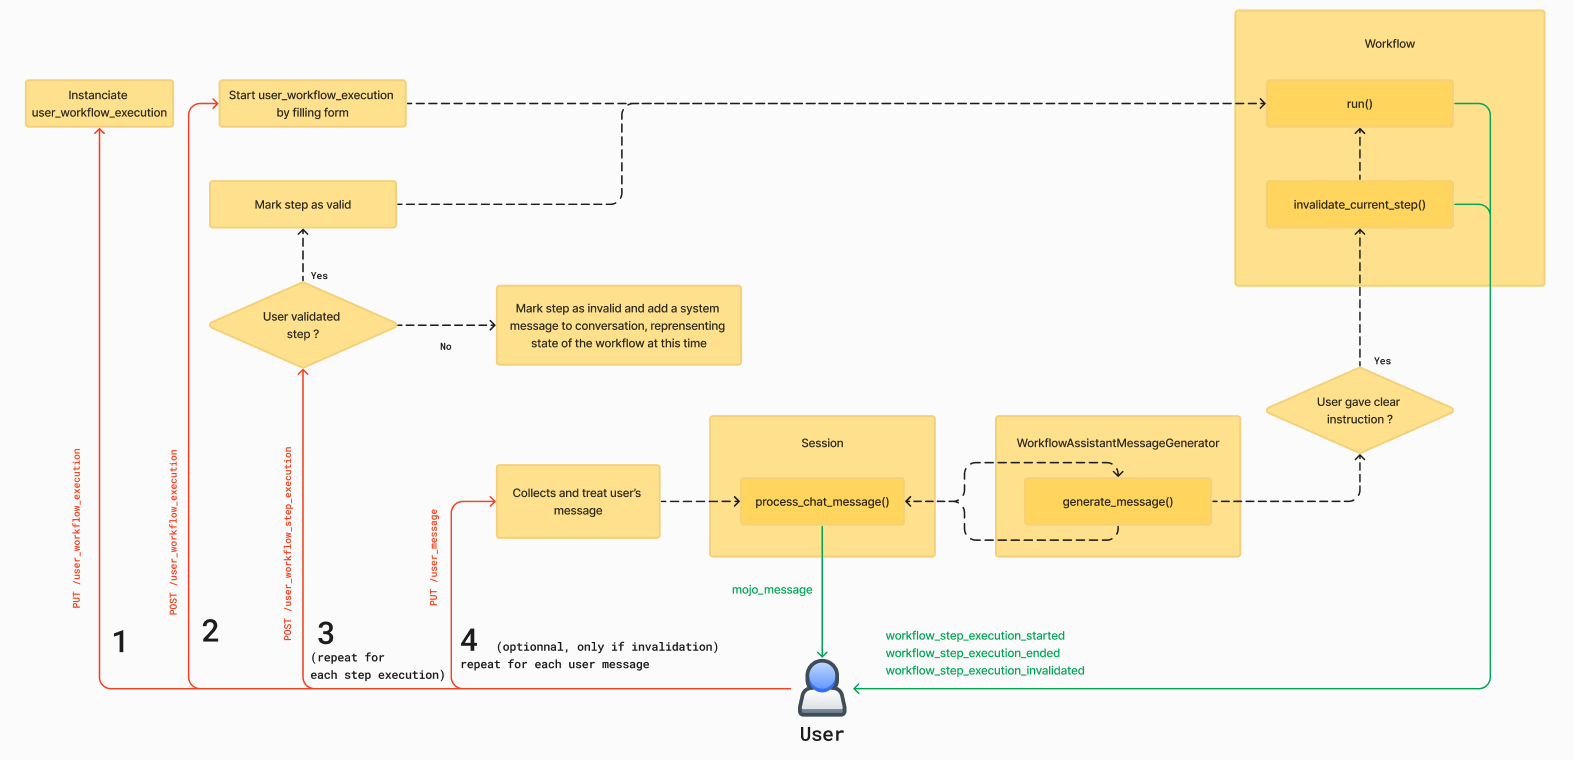
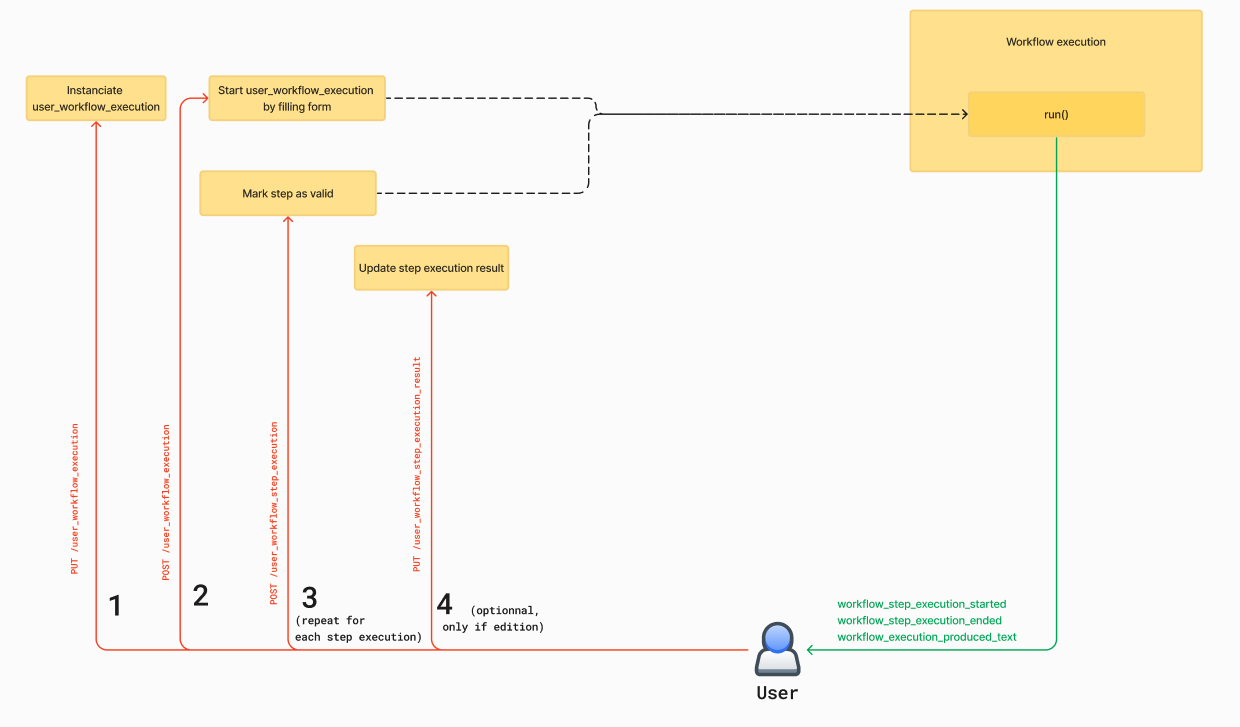
update workflow doc

diff --git a/backend/app/models/workflows/step_execution.py b/backend/app/models/workflows/step_execution.py
@@ -4,8 +4,6 @@ from mojodex_core.entities import MdUserWorkflowStepExecutionResult, MdUserWorkf
 from typing import List
 from models.workflows.steps_library import steps_class
 from mojodex_core.mail import send_technical_error_email
-from sqlalchemy.orm.attributes import flag_modified
-from app import time_manager
 import pytz
 class WorkflowStepExecution:
     logger_prefix = "WorkflowStepExecution"
@@ -37,7 +35,7 @@ class WorkflowStepExecution:
             step_json = self.to_json()
             step_json["session_id"] = session_id
             server_socket.emit('workflow_step_execution_started', step_json, to=session_id)
-            self.result = self.workflow_step.execute(self.parameter, self.get_learned_instructions(), initial_parameter,
+            self.result = self.workflow_step.execute(self.parameter, initial_parameter,
                                                      past_validated_steps_results, user_id=self.user_id,
                                                      user_task_execution_pk= self.db_object.user_task_execution_fk,
                                                      task_name_for_system= self.workflow_name, session_id=session_id)
@@ -98,41 +96,6 @@ class WorkflowStepExecution:
             self.db_session.commit()
         except Exception as e:
             raise Exception(f"{self.logger_prefix} :: validate :: {e}")
-
-    def invalidate(self, session_id: str):
-        try:
-            self.db_object.validated = False
-            self.db_session.commit()
-            # send message to user
-            json_step = self.to_json()
-            json_step["session_id"] = session_id
-            server_socket.emit('workflow_step_execution_invalidated', json_step, to=session_id)
-        except Exception as e:
-            raise Exception(f"{self.logger_prefix} :: invalidate :: {e}")
-
-    def learn_instruction(self, instruction):
-        try:
-            self.db_object.learned_instruction = instruction
-            self.db_session.commit()
-        except Exception as e:
-            raise Exception(f"{self.logger_prefix} :: learn_instruction :: {e}")
-
-    def get_learned_instructions(self):
-        # find list of previous step of this kind for this workflow execution
-        try:
-            previous_steps_execution = self.db_session.query(MdUserWorkflowStepExecution) \
-                .filter(MdUserWorkflowStepExecution.workflow_step_fk == self.db_object.workflow_step_fk) \
-                .filter(
-                MdUserWorkflowStepExecution.user_task_execution_fk == self.db_object.user_task_execution_fk) \
-                .filter(
-                MdUserWorkflowStepExecution.user_workflow_step_execution_pk != self.db_object.user_workflow_step_execution_pk) \
-                .all()
-            return [
-                {'result': previous_step_execution.result, 'instruction': previous_step_execution.learned_instruction}
-                for previous_step_execution in previous_steps_execution if
-                previous_step_execution.learned_instruction and previous_step_execution.parameter == self.parameter]
-        except Exception as e:
-            raise Exception(f"{self.logger_prefix} :: get_learned_instructions :: {e}")
 
     @property
     def creation_date(self):

diff --git a/backend/app/routes/user_workflow_step_execution.py b/backend/app/routes/user_workflow_step_execution.py
@@ -20,7 +20,6 @@ class UserWorkflowStepExecution(Resource):
         try:
             timestamp = request.json['datetime']
             user_workflow_step_execution_pk = request.json['user_workflow_step_execution_pk']
-            validated = request.json['validated'] # boolean
             platform = request.json['platform']
         except KeyError as e:
             return {"error": f"Missing parameter : {e}"}, 400
@@ -36,27 +35,9 @@ class UserWorkflowStepExecution(Resource):
                 return {"error": "Workflow execution not found for this user"}, 404
             
             workflow_execution = WorkflowExecution(user_task_execution.user_task_execution_pk)
-            if validated:
-                workflow_execution.validate_step_execution(user_workflow_step_execution_pk)
-                server_socket.start_background_task(workflow_execution.run)
-            else:
-                # # todo => set a status rejected ?
-                # add new message to db
-                current_step_in_validation = workflow_execution.get_step_execution_from_pk(user_workflow_step_execution_pk)
-                with open("mojodex_core/prompts/workflows/state.txt", "r") as file:
-                    template = Template(file.read())
-                    text = template.render(
-                        before_checkpoint_validated_steps_executions=workflow_execution.get_before_checkpoint_validated_steps_executions(current_step_in_validation),
-                        after_checkpoint_validated_steps_executions=workflow_execution.get_after_checkpoint_validated_steps_executions(current_step_in_validation),
-                        current_step=current_step_in_validation,
-                        )
-                    
-                system_message = MdMessage(
-                                session_id=user_task_execution.session_id, sender='system', event_name='worflow_step_execution_rejection', message={'text': text},
-                                creation_date=datetime.now(), message_date=datetime.now()
-                )
-                db.session.add(system_message)
-                db.session.commit()
+            workflow_execution.validate_step_execution(user_workflow_step_execution_pk)
+            server_socket.start_background_task(workflow_execution.run)
+
                 
             return {"message": "Step validated"}, 200
         except Exception as e:

diff --git a/backend/app/models/workflows/workflow_execution.py b/backend/app/models/workflows/workflow_execution.py
@@ -298,26 +298,6 @@ class WorkflowExecution:
         except Exception as e:
             raise Exception(f"_last_step_execution :: {e}")
 
-    def invalidate_current_step(self, learned_instruction):
-        try:
-            current_step_in_validation = self._get_last_step_execution()
-            current_step_in_validation.invalidate(self.db_object.session_id)
-            if current_step_in_validation.workflow_step.is_checkpoint:
-                current_step_in_validation.learn_instruction(learned_instruction)
-                return
-
-            # find checkpoint step
-            checkpoint_step = self._find_checkpoint_step()
-            # for all step in self.validated_steps_executions after checkpoint_step, invalidate them
-            checkpoint_step_index = self.past_accepted_steps_executions.index(checkpoint_step)
-            for validated_step in self.past_accepted_steps_executions[checkpoint_step_index:]:
-                validated_step.invalidate(self.db_object.session_id)
-                # remove from validated_steps_executions
-                self.past_accepted_steps_executions.remove(validated_step)
-            checkpoint_step.learn_instruction(learned_instruction)
-        except Exception as e:
-            raise Exception(f"invalidate_current_step :: {e}")
-    
     def restart(self):
         try:
             current_step_in_validation = self._get_last_step_execution()

diff --git a/backend/app/models/workflows/step.py b/backend/app/models/workflows/step.py
@@ -80,12 +80,12 @@ class WorkflowStep(ABC):
         return self.db_object.rank
 
     @abstractmethod
-    def _execute(self, parameter: dict, learned_instructions: dict, initial_parameters: dict,
+    def _execute(self, parameter: dict, initial_parameters: dict,
                  past_validated_steps_results: List[dict], user_id: str, user_task_execution_pk: int,
                    task_name_for_system: str, session_id: str):
         pass
 
-    def execute(self, parameter: dict, learned_instructions: dict, initial_parameter: dict,
+    def execute(self, parameter: dict, initial_parameter: dict,
                 past_validated_steps_results: List[dict], user_id: str, user_task_execution_pk: int, 
                 task_name_for_system: str, session_id: str):
         """
@@ -97,7 +97,7 @@ class WorkflowStep(ABC):
             for key in self.input_keys:
                 if key not in parameter:
                     raise Exception(f"execute :: key {key} not in parameter")
-            output = self._execute(parameter, learned_instructions, initial_parameter, past_validated_steps_results,
+            output = self._execute(parameter, initial_parameter, past_validated_steps_results,
                                    user_id, user_task_execution_pk, task_name_for_system, session_id)  # list of dict
             # ensure output is a list
             if not isinstance(output, List):

diff --git a/backend/app/models/workflows/write_poem/write_stanza.py b/backend/app/models/workflows/write_poem/write_stanza.py
@@ -20,13 +20,13 @@ class StanzaWriterStep(WorkflowStep):
     def output_keys(self):
         return ['stanza']
     
-    def _execute(self, parameter: dict, learned_instructions: dict, initial_parameter: dict, past_validated_steps_results: List[dict], user_id: str,user_task_execution_pk: int, task_name_for_system: str, session_id: str):
+    def _execute(self, parameter: dict, initial_parameter: dict, past_validated_steps_results: List[dict], user_id: str,user_task_execution_pk: int, task_name_for_system: str, session_id: str):
         try: 
             # input keys: stanza_topic
             stanza_topic = parameter['stanza_topic']
             poem_topic = initial_parameter['poem_topic']
             write_poem_stanza_mpt = MPT(StanzaWriterStep.write_poem_stanza_filename, poem_topic=poem_topic, stanza_topic=stanza_topic,
-                                        learned_instructions=learned_instructions, past_validated_steps_results=past_validated_steps_results)
+                                        past_validated_steps_results=past_validated_steps_results)
             responses = write_poem_stanza_mpt.run(user_id=user_id, temperature=0, max_tokens=1000, user_task_execution_pk=user_task_execution_pk, task_name_for_system=task_name_for_system)
             stanza = responses[0].strip()
             return [{'stanza': stanza}]

diff --git a/backend/app/models/workflows/write_poem/divide_in_stanza.py b/backend/app/models/workflows/write_poem/divide_in_stanza.py
@@ -24,7 +24,7 @@ class StanzaDividerStep(WorkflowStep):
         return ['stanza_topic']
 
     
-    def _execute(self, parameter: dict, learned_instructions: dict, initial_parameter: dict, past_validated_steps_results: List[dict], user_id: str, user_task_execution_pk: int, task_name_for_system: str, session_id:str):
+    def _execute(self, parameter: dict, initial_parameter: dict, past_validated_steps_results: List[dict], user_id: str, user_task_execution_pk: int, task_name_for_system: str, session_id:str):
         try: 
             # input keys: poem_topic, n_stanza
             poem_topic = parameter['poem_topic']

diff --git a/mojodex_core/entities.py b/mojodex_core/entities.py
@@ -733,7 +733,6 @@ class MdUserWorkflowStepExecution(Base):
     creation_date = Column(DateTime, nullable=False, server_default=text('now()'))
     parameter = Column(JSON, nullable=False)
     validated = Column(Boolean)
-    learned_instruction = Column(Text)
     error_status = Column(JSON)
 
     md_user_task_execution = relationship('MdUserTaskExecution', back_populates='md_user_workflow_step_execution')

diff --git a/docs/design-principles/workflows/execute_workflow.md b/docs/design-principles/workflows/execute_workflow.md
@@ -215,62 +215,18 @@ def _ask_for_validation(self):
 
 ### 4. User validation
 #### 4.1. User validates
-If the user validates the result of the run, the route POST `/user_workflow_execution_step_execution`is called with value `validated` set to `True`. This route updates the `user_workflow_execution_step_execution` instance in the database and triggers the next step execution with `workflow.run` in a dedicated thread.
+When the user validates the result of the run, the route POST `/user_workflow_execution_step_execution`is called with value `validated` set to `True`. This route updates the `user_workflow_execution_step_execution` instance in the database and triggers the next step execution with `workflow.run` in a dedicated thread.
 ```python
 class UserWorkflowStepExecution(Resource):
     [...]
     def post(self, user_id):
         [...]
         workflow_execution = WorkflowExecution(user_workflow_execution.user_workflow_execution_pk)
-        if validated:
-            workflow_execution.validate_step_execution(user_workflow_step_execution_pk)
-            server_socket.start_background_task(workflow_execution.run)
+        
+        workflow_execution.validate_step_execution(user_workflow_step_execution_pk)
+        server_socket.start_background_task(workflow_execution.run)
         [...]
 ```
             
-#### 4.2. User does not validate
-If the user does not validate the result of the run, the route POST `/user_workflow_execution_step_execution`is called with value `validated` set to `False`. 
-This route adds a system message in the workflow execution's session to store a view of the workflow state at this point in the conversation. This message contains the achieved step until current checkpoint and the current steps executions after current checkpoints (steps that can still be re-executed).
-
-Then, the user will send a message using common route PUT `user_message`. This message will be eventually transcripted if it was audio and transfer to a session through method `process_chat_message`.
-
-The process chat message will decode the message and send it to `WorflowResponseGenerator`located in `backend/app/models/session/assistant_message_generators`. This class will generate the assistant response to user request from on going workflow's conversation (including the system messages).
-
-The goal of the assistant is to capture the new user instruction to re-execute the step with the same input but a new orientation.
-To do that, the LLM can answer with 3 types of tags:
-
-- <no_go_explanation>: If the user asked the assistant to edit something in ACHIEVED STEPS, the assistant will explain why it is not possible to edit this past checkpoint steps.
-- <ask_for_clarification>: If the user is not clear enough in its request for re-execution, the assistant will ask for clarification until it gets a clear instruction.
-- <inform_user> coming along with <user_instruction>: once the assistant caught the user instruction, it will respond by encapsulating the user instruction in a <user_instruction> tag and add a message to inform the user that the instruction has been taken into account into <inform_user> tag.
-
-Once the assistant capture the user instruction, it will:
-- Invalidate the step
-- Launch a new run of the workflow in a dedicated thread
-
-The invalidation method is as follow:
-```python
-class WorkflowExecution:
-    [...]
-    def invalidate_current_step(self, learned_instruction):
-        [...]
-        current_step_in_validation = self._get_last_step_execution() # the step execution we went to invalidate is the last one
-        current_step_in_validation.invalidate(self.db_object.session_id) # set validated to False in database and send socketio message to client
-
-        if current_step_in_validation.workflow_step.is_checkpoint: # if this step is the checkpoint, it is the one that will learn from this failure
-            current_step_in_validation.learn_instruction(learned_instruction)
-            return
-        
-        # If the step in validation is not a checkpoint, find the previous one that is a checkpoint
-        checkpoint_step = self._find_checkpoint_step()
-        # for all step in self.validated_steps_executions after checkpoint_step, invalidate them
-        checkpoint_step_index = self.validated_steps_executions.index(checkpoint_step)
-        for validated_step in self.validated_steps_executions[checkpoint_step_index:]:
-            validated_step.invalidate(self.db_object.session_id)
-            # remove from validated_steps_executions
-            self.validated_steps_executions.remove(validated_step)
-
-        # checkpoint_step learns from this failure
-        checkpoint_step.learn_instruction(learned_instruction)
-```
 
 ![complete_user_workflow_execution_flow](../../images/workflow_execution/complete_user_workflow_execution_flow.png)
